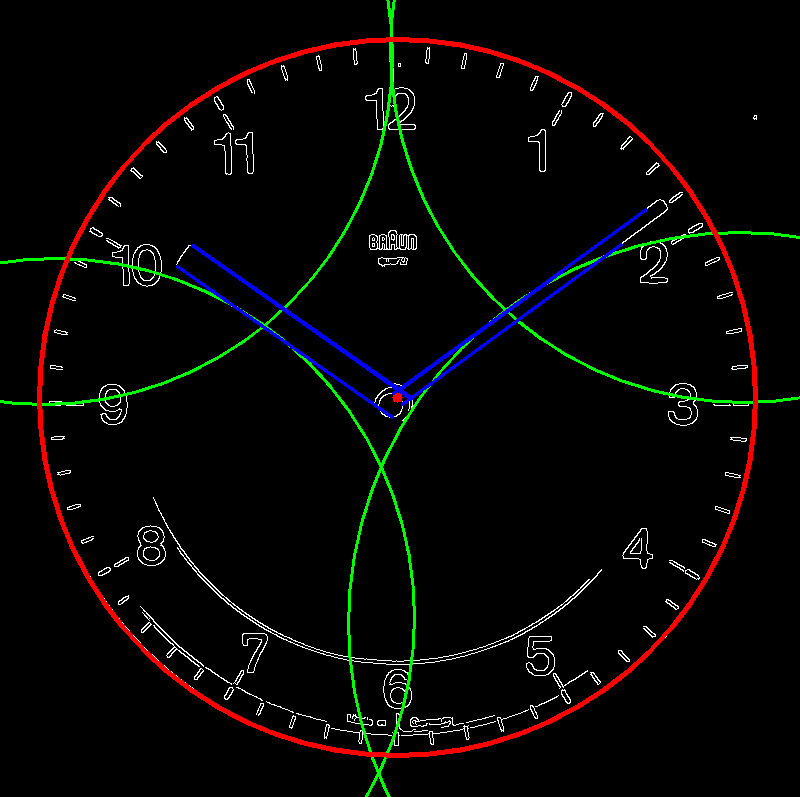
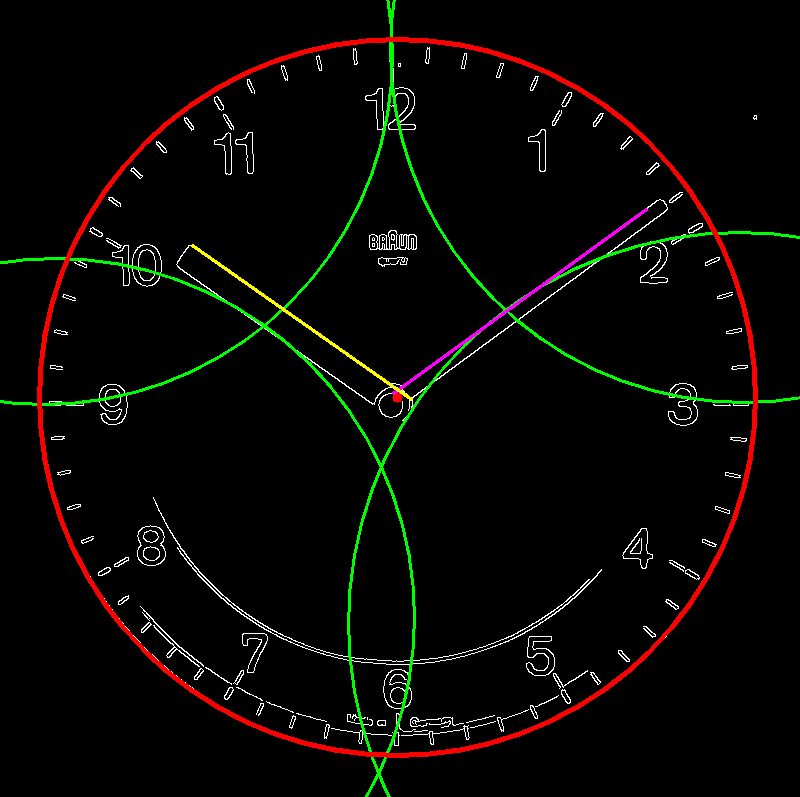
added lines-to-vectors translation and added simpification method that returns only vectors for long and short clock hand

diff --git a/code/clock_visualization.py b/code/clock_visualization.py
@@ -1,6 +1,8 @@
 import cv2
 import numpy as np
 from pathlib import Path
+import matplotlib.pyplot as plt
+import math 
 
 # Information to get the images for the presentation
 BASE = Path(__file__).resolve().parent
@@ -14,6 +16,34 @@ def save(name, img):
         raise OSError(f"Cannot save image: {path}")
     else:
         print(f"{path} saved successfully")
+    return path
+
+def vector(x1,y1,x2,y2):
+    vector_x = (x2 - x1)
+    vector_y = (y2 - y1)
+    return (vector_x, vector_y)
+
+def vector_length(x,y):
+    x = abs(x)
+    y = abs(y)
+    return math.sqrt((x ** 2) + (y ** 2))
+
+def vector_simplification(vectors):
+    simplified = []
+    simplified_angles = []
+    for vector in sorted(vectors, key=lambda item: item[2], reverse=True):
+        angle = math.degrees(math.atan2(vector[1], vector[0])) % 180
+        has_similar_vector = any(
+            abs((angle - kept_angle + 90) % 180 - 90) <= 10
+            for kept_angle in simplified_angles
+        )
+        if not has_similar_vector:
+            simplified.append(vector)
+            simplified_angles.append(angle)
+            if len(simplified) == 2:
+                break
+    return simplified
+            
 
 # Load the image
 image = cv2.imread(str(BASE / "clock.jpg"))
@@ -65,6 +95,19 @@ lines_display = circles_display.copy()
 lines = cv2.HoughLinesP(edges_display, 1, np.pi / 180, threshold=45,
     minLineLength=max(12, min(h, w) // 9), maxLineGap=12)
 
+
+# Name and BGR tuple
+LINE_COLORS = [
+    ("magenta", (255, 0, 255)),
+    ("yellow",  (0, 255, 255)),
+    ("cyan",    (255, 255, 0)),
+    ("orange",  (0, 165, 255)),
+    ("blue",    (255, 0, 0)),
+    ("lime",    (0, 255, 0)),
+]
+
+vectors = []
+
 if lines is not None:
     for x1, y1, x2, y2 in lines.reshape(-1, 4):
 
@@ -77,14 +120,28 @@ if lines is not None:
         if distance > max(12, radius * 0.12):
             continue
 
-        cv2.line(lines_display, (x1, y1), (x2, y2), (255, 0, 0), 2)
+        dx, dy = vector(x1, y1, x2, y2)
+
+        length = vector_length(dx, dy)
+
+        vectors.append([dx, dy, length, x1, y1, x2, y2])
 
 else:
     print("No lines detected.")
 
-save('lines_display', lines_display)
 
-# Detect small and long hand 
+
+new_vectors = vector_simplification(vectors)
+
+for index, new_vector in enumerate(new_vectors):
+    dx, dy, length, x1, y1, x2, y2 = new_vector
+    color_name, bgr = LINE_COLORS[index % len(LINE_COLORS)]
+    cv2.line(lines_display, (x1, y1), (x2, y2), bgr, 2)
+    print(f"{index + 1}. {color_name}: ({x1},{y1}) -> ({x2},{y2}); Vector value: [{dx}, {dy}]; Vector length: [{length}]")
+
+file_lines_display = save('lines_display', lines_display)
+
+
 
 # Calculate angles
 
